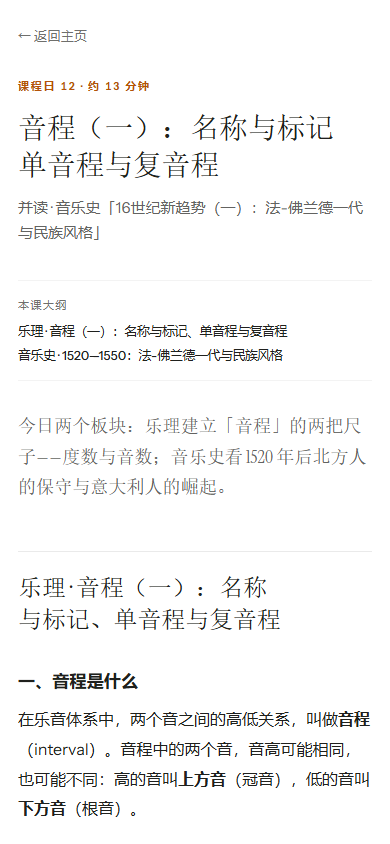
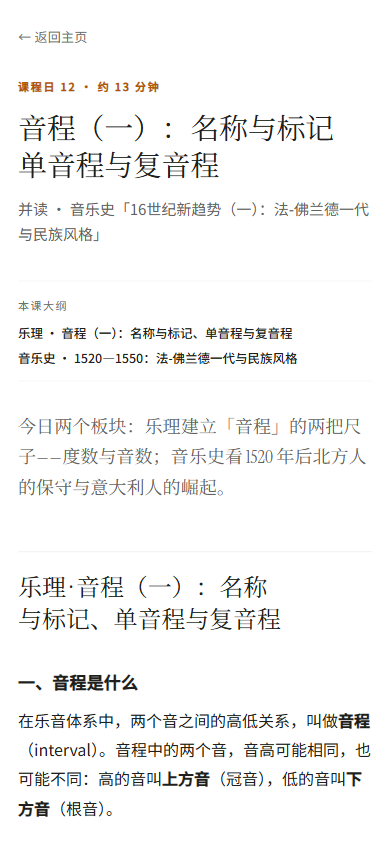
视觉重做：思源宋体标题 + 思源黑体正文，版心加宽到 1320，资源加版本号破缓存；README 补加专辑流程

diff --git a/assets/reading.css b/assets/reading.css
@@ -21,20 +21,21 @@
 
 /* ---------- 版心：桌面双栏，窄屏单栏 ---------- */
 .read-shell {
-  /* 660 正文 + 68 间距 + 268 右栏 + 36×2 内边距 = 1068 */
-  max-width: 1068px;
+  /* 720 正文 + 84 间距 + 300 右栏 + 48×2 内边距 = 1200，宽屏居中 */
+  max-width: 1320px;
   margin: 0 auto;
-  padding: 48px 36px 104px;
+  padding: 56px 48px 120px;
 }
 
 .read-layout {
   display: grid;
-  grid-template-columns: minmax(0, 660px) 268px;
+  grid-template-columns: minmax(0, 720px) 300px;
   grid-template-areas:
     "head rail"
     "body rail"
     "nav  rail";
-  column-gap: 68px;
+  column-gap: 84px;
+  justify-content: center;
   align-items: start;
 }
 
@@ -108,7 +109,7 @@
 }
 
 .detail-head h1 {
-  font-family: "Instrument Serif", "Songti SC", Georgia, serif;
+  font-family: var(--font-serif);
   font-weight: 400;
   font-size: 40px;
   line-height: 1.2;
@@ -171,11 +172,22 @@
   hyphens: none;
 }
 
+/* 大屏再放一点字号，避免"宽屏小字"的空旷感 */
+@media (min-width: 1400px) {
+  .read-layout {
+    grid-template-columns: minmax(0, 760px) 320px;
+    column-gap: 96px;
+  }
+  .article {
+    font-size: calc(var(--read-fs) + 1px);
+  }
+}
+
 .article > p { margin: 0 0 1.15em; }
 .article > p:last-child { margin-bottom: 0; }
 
 .article h2 {
-  font-family: "Instrument Serif", "Songti SC", Georgia, serif;
+  font-family: var(--font-serif);
   font-weight: 400;
   font-size: 30px;
   line-height: 1.32;
@@ -252,7 +264,7 @@
   margin: 0 0 2.2em;
   padding: 0;
   border: 0;
-  font-family: "Instrument Serif", "Songti SC", Georgia, serif;
+  font-family: var(--font-serif);
   font-size: 20px;
   line-height: 1.7;
   letter-spacing: .004em;

diff --git a/detail.html b/detail.html
@@ -6,11 +6,11 @@
 <title>课程页 · 每日音乐学习</title>
 <link rel="preconnect" href="https://fonts.googleapis.com">
 <link rel="preconnect" href="https://fonts.gstatic.com" crossorigin>
-<link href="https://fonts.googleapis.com/css2?family=Instrument+Sans:wght@400;500;600&family=Instrument+Serif:wght@400&display=swap" rel="stylesheet">
-<link rel="stylesheet" href="assets/app.css">
-<link rel="stylesheet" href="assets/site.css">
-<link rel="stylesheet" href="assets/site-extra.css">
-<link rel="stylesheet" href="assets/reading.css">
+<link href="https://fonts.googleapis.com/css2?family=Instrument+Sans:wght@400;500&family=Instrument+Serif&family=Noto+Sans+SC:wght@400;500&family=Noto+Serif+SC:wght@400;600&display=swap" rel="stylesheet">
+<link rel="stylesheet" href="assets/app.css?v=20261104">
+<link rel="stylesheet" href="assets/site.css?v=20261104">
+<link rel="stylesheet" href="assets/site-extra.css?v=20261104">
+<link rel="stylesheet" href="assets/reading.css?v=20261104">
 </head>
 <body style="background:var(--ground)">
 <div class="read-progress" id="readProgress" aria-hidden="true"></div>

diff --git a/index.html b/index.html
@@ -7,10 +7,10 @@
 <meta name="description" content="以李重光《基本乐理通用教材》与 Grout《西方音乐史》为底本的 36 天音乐学习课程。">
 <link rel="preconnect" href="https://fonts.googleapis.com">
 <link rel="preconnect" href="https://fonts.gstatic.com" crossorigin>
-<link href="https://fonts.googleapis.com/css2?family=Instrument+Sans:wght@400;500;600&family=Instrument+Serif:wght@400&display=swap" rel="stylesheet">
-<link rel="stylesheet" href="assets/app.css">
-<link rel="stylesheet" href="assets/site.css">
-<link rel="stylesheet" href="assets/site-extra.css">
+<link href="https://fonts.googleapis.com/css2?family=Instrument+Sans:wght@400;500&family=Instrument+Serif&family=Noto+Sans+SC:wght@400;500&family=Noto+Serif+SC:wght@400;600&display=swap" rel="stylesheet">
+<link rel="stylesheet" href="assets/app.css?v=20261104">
+<link rel="stylesheet" href="assets/site.css?v=20261104">
+<link rel="stylesheet" href="assets/site-extra.css?v=20261104">
 </head>
 <body>
 <div class="app">

diff --git a/assets/site.css b/assets/site.css
@@ -36,7 +36,8 @@
   --fs-kpi: 32px;
   --fs-body: 14px;
   --fs-small: 12px;
-  --font: "Instrument Sans", Inter, system-ui, sans-serif;
+  --font: "Noto Sans SC", "Instrument Sans", "PingFang SC", "Microsoft YaHei", system-ui, sans-serif;
+  --font-serif: "Instrument Serif", "Noto Serif SC", "Songti SC", "SimSun", Georgia, serif;
 }
 
 /* ---------- 品牌与侧栏 ---------- */
@@ -54,7 +55,7 @@
 .kpis .kpi + .kpi { border-left: 1px solid var(--border); }
 .greeting-row { margin: 28px 0 24px; text-align: center; }
 .greeting-row h1 {
-  font-family: "Instrument Serif", "Songti SC", Georgia, serif;
+  font-family: var(--font-serif);
   font-size: var(--fs-title); font-weight: 400; letter-spacing: 0;
   line-height: 1.25; color: var(--text);
 }

diff --git a/README.md b/README.md
@@ -91,6 +91,60 @@ python rag/run.py list
 
 中文检索做了专门处理（汉字单字 + 相邻二元组 + BM25），术语像「五度相生律」能被精确命中，不需要额外的分词器。
 
+**加书之后要做什么：** 新书入的是**本地知识库**，不会自动变成网站内容。要写新课程，用 `python tools/unit_context.py <单元编号> --per 2 --digest` 取原文（会自动换算成书上印的页码），照着已有课文的结构写 `data/lessons/day-NN.md`，再跑 `python tools/build_lessons_index.py` 更新目录。
+
+## 加一张专辑解析
+
+三步，全在 `data/albums/` 里完成：
+
+**1. 放封面**
+
+```
+data/albums/<slug>/cover.jpg
+```
+
+**2. 写正文** `data/albums/<slug>.md`
+
+```markdown
+> 一句话引言（整篇的钩子）
+
+## 一个人（或：背景）
+
+正文……可以用 ![图注](data/albums/<slug>/cover.jpg) 插图，
+渲染成 320px 的书页式插页，图注就是 alt 文字。
+
+#### 01 · 曲名（谁主唱）
+逐曲简析。
+
+## 参考出处
+
+- 来源说明：[链接文字](https://…)
+```
+
+约定：`##` 是章节，`####` 是单曲，`>` 出处用单行引用，末尾必须有 `## 参考出处` 且链接可点。
+
+**3. 登记** `data/albums/index.json` 的 `albums` 数组加一条：
+
+```json
+{
+  "id": "<slug>",
+  "title": "专辑名",
+  "artist": "艺人",
+  "year": "1990",
+  "kicker": "专辑解析",
+  "byline": "艺人 · 年份",
+  "cover": "data/albums/<slug>/cover.jpg",
+  "coverAlt": "封面描述",
+  "facts": [{ "k": "发行", "v": "1990" }],
+  "listen": [{ "platform": "Apple Music", "url": "https://…" }],
+  "more": [{ "platform": "Discogs", "url": "https://…" }],
+  "summary": "列表页显示的一句话",
+  "addedAt": "2026-11-04"
+}
+```
+
+提交推送，Pages 一两分钟自动重建。右栏的封面、档案、收听链接、列表缩略图都会自动出现，**不用改任何代码**。
+
 ## 本地运行
 
 必须用 HTTP 服务器打开，直接双击 HTML 不行（浏览器不允许读取本地 JSON）：

diff --git a/docs/MAINTENANCE.md b/docs/MAINTENANCE.md
@@ -100,3 +100,8 @@ python tools/build_lessons_index.py
 是纯静态托管，没有后端，所以那套代码在仓库里永远跑不起来。
 
 相关文件已移入 `_archive/` 并在 `.gitignore` 中排除，仅作留档，不再参与构建。
+
+## 静态资源缓存
+
+改了 CSS / JS 之后，把 index.html 与 detail.html 里 ssets/*.css?v=、ssets/*.js?v= 的版本号改掉（例如 ?v=20261104），否则浏览器会用旧缓存。
+
